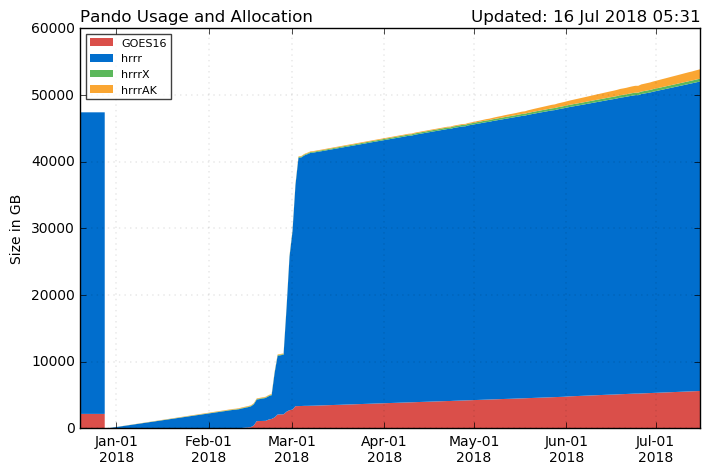
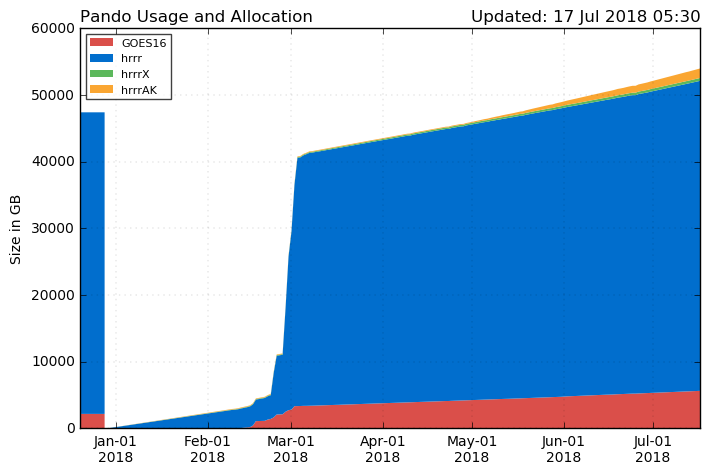
updates

diff --git a/hrrr_fires.html b/hrrr_fires.html
@@ -49,7 +49,7 @@ This page is created dynamically in the scirpt /oper/HRRR_fires/manager.py
 <tr><th>Name</th> <th>State</th> <th>Size (acres)</th> <th>Start Date</th></tr>
 <tr><td>
         <div class="btn-group" role="group" aria-label="..." style="padding-bottom:3px">
-        <a href="http://home.chpc.utah.edu/~u0553130/Brian_Blaylock/cgi-bin/photo_viewer_fire.cgi?FIRE=CURREY_CANYON" class="btn btn-warning" style="width:175px"><b><i class="fab fa-gripfire"></i> CURREY CANYON</b></a>  <div class="btn-group" role="group">
+        <a href="http://home.chpc.utah.edu/~u0553130/Brian_Blaylock/cgi-bin/photo_viewer_fire.cgi?FIRE=EAST_FORK" class="btn btn-warning" style="width:175px"><b><i class="fab fa-gripfire"></i> EAST FORK</b></a>  <div class="btn-group" role="group">
         <!--
         <a class="btn btn-warning dropdown-toggle" data-toggle="dropdown" aria-haspopup="true" aria-expanded="false">
         <i class="far fa-clock"></i>
@@ -57,14 +57,14 @@ This page is created dynamically in the scirpt /oper/HRRR_fires/manager.py
         </a>
         <ul class="dropdown-menu">
         <li>Other Data/Figures:</li>
-        <li><a href="http://home.chpc.utah.edu/~u0553130/PhD/HRRR_fires/CURREY_CANYON">More Plots</a></li>
-        <li><a href="http://home.chpc.utah.edu/~u0553130/Brian_Blaylock/cgi-bin/hrrr_fires_alert.cgi?fire=CURREY CANYON">Past Wind Events</a></li>
+        <li><a href="http://home.chpc.utah.edu/~u0553130/PhD/HRRR_fires/EAST_FORK">More Plots</a></li>
+        <li><a href="http://home.chpc.utah.edu/~u0553130/Brian_Blaylock/cgi-bin/hrrr_fires_alert.cgi?fire=EAST FORK">Past Wind Events</a></li>
         </ul>
         -->
         </div>
-        </div></td><td>Oregon</td> <td>3,100</td><td>2018-07-14 00:00:00</td></tr><tr><td>
+        </div></td><td>Idaho</td> <td>4,000</td><td>2018-07-16 00:00:00</td></tr><tr><td>
         <div class="btn-group" role="group" aria-label="..." style="padding-bottom:3px">
-        <a href="http://home.chpc.utah.edu/~u0553130/Brian_Blaylock/cgi-bin/photo_viewer_fire.cgi?FIRE=EAGLE" class="btn btn-warning" style="width:175px"><b><i class="fab fa-gripfire"></i> EAGLE</b></a>  <div class="btn-group" role="group">
+        <a href="http://home.chpc.utah.edu/~u0553130/Brian_Blaylock/cgi-bin/photo_viewer_fire.cgi?FIRE=EAST_WHITE" class="btn btn-warning" style="width:175px"><b><i class="fab fa-gripfire"></i> EAST WHITE</b></a>  <div class="btn-group" role="group">
         <!--
         <a class="btn btn-warning dropdown-toggle" data-toggle="dropdown" aria-haspopup="true" aria-expanded="false">
         <i class="far fa-clock"></i>
@@ -72,12 +72,72 @@ This page is created dynamically in the scirpt /oper/HRRR_fires/manager.py
         </a>
         <ul class="dropdown-menu">
         <li>Other Data/Figures:</li>
-        <li><a href="http://home.chpc.utah.edu/~u0553130/PhD/HRRR_fires/EAGLE">More Plots</a></li>
-        <li><a href="http://home.chpc.utah.edu/~u0553130/Brian_Blaylock/cgi-bin/hrrr_fires_alert.cgi?fire=EAGLE">Past Wind Events</a></li>
+        <li><a href="http://home.chpc.utah.edu/~u0553130/PhD/HRRR_fires/EAST_WHITE">More Plots</a></li>
+        <li><a href="http://home.chpc.utah.edu/~u0553130/Brian_Blaylock/cgi-bin/hrrr_fires_alert.cgi?fire=EAST WHITE">Past Wind Events</a></li>
         </ul>
         -->
         </div>
-        </div></td><td>California</td> <td>2,100</td><td>2018-07-13 00:00:00</td></tr><tr><td>
+        </div></td><td>Idaho</td> <td>1,000</td><td>2018-07-16 00:00:00</td></tr><tr><td>
+        <div class="btn-group" role="group" aria-label="..." style="padding-bottom:3px">
+        <a href="http://home.chpc.utah.edu/~u0553130/Brian_Blaylock/cgi-bin/photo_viewer_fire.cgi?FIRE=FERGUSON_" class="btn btn-warning" style="width:175px"><b><i class="fab fa-gripfire"></i> FERGUSON </b></a>  <div class="btn-group" role="group">
+        <!--
+        <a class="btn btn-warning dropdown-toggle" data-toggle="dropdown" aria-haspopup="true" aria-expanded="false">
+        <i class="far fa-clock"></i>
+        <span class="caret"></span>
+        </a>
+        <ul class="dropdown-menu">
+        <li>Other Data/Figures:</li>
+        <li><a href="http://home.chpc.utah.edu/~u0553130/PhD/HRRR_fires/FERGUSON_">More Plots</a></li>
+        <li><a href="http://home.chpc.utah.edu/~u0553130/Brian_Blaylock/cgi-bin/hrrr_fires_alert.cgi?fire=FERGUSON ">Past Wind Events</a></li>
+        </ul>
+        -->
+        </div>
+        </div></td><td>California</td> <td>9,266</td><td>2018-07-13 00:00:00</td></tr><tr><td>
+        <div class="btn-group" role="group" aria-label="..." style="padding-bottom:3px">
+        <a href="http://home.chpc.utah.edu/~u0553130/Brian_Blaylock/cgi-bin/photo_viewer_fire.cgi?FIRE=GARAT" class="btn btn-warning" style="width:175px"><b><i class="fab fa-gripfire"></i> GARAT</b></a>  <div class="btn-group" role="group">
+        <!--
+        <a class="btn btn-warning dropdown-toggle" data-toggle="dropdown" aria-haspopup="true" aria-expanded="false">
+        <i class="far fa-clock"></i>
+        <span class="caret"></span>
+        </a>
+        <ul class="dropdown-menu">
+        <li>Other Data/Figures:</li>
+        <li><a href="http://home.chpc.utah.edu/~u0553130/PhD/HRRR_fires/GARAT">More Plots</a></li>
+        <li><a href="http://home.chpc.utah.edu/~u0553130/Brian_Blaylock/cgi-bin/hrrr_fires_alert.cgi?fire=GARAT">Past Wind Events</a></li>
+        </ul>
+        -->
+        </div>
+        </div></td><td>Idaho</td> <td>1,300</td><td>2018-07-16 00:00:00</td></tr><tr><td>
+        <div class="btn-group" role="group" aria-label="..." style="padding-bottom:3px">
+        <a href="http://home.chpc.utah.edu/~u0553130/Brian_Blaylock/cgi-bin/photo_viewer_fire.cgi?FIRE=GEORGES" class="btn btn-warning" style="width:175px"><b><i class="fab fa-gripfire"></i> GEORGES</b></a>  <div class="btn-group" role="group">
+        <!--
+        <a class="btn btn-warning dropdown-toggle" data-toggle="dropdown" aria-haspopup="true" aria-expanded="false">
+        <i class="far fa-clock"></i>
+        <span class="caret"></span>
+        </a>
+        <ul class="dropdown-menu">
+        <li>Other Data/Figures:</li>
+        <li><a href="http://home.chpc.utah.edu/~u0553130/PhD/HRRR_fires/GEORGES">More Plots</a></li>
+        <li><a href="http://home.chpc.utah.edu/~u0553130/Brian_Blaylock/cgi-bin/hrrr_fires_alert.cgi?fire=GEORGES">Past Wind Events</a></li>
+        </ul>
+        -->
+        </div>
+        </div></td><td>California</td> <td>2,888</td><td>2018-07-08 00:00:00</td></tr><tr><td>
+        <div class="btn-group" role="group" aria-label="..." style="padding-bottom:3px">
+        <a href="http://home.chpc.utah.edu/~u0553130/Brian_Blaylock/cgi-bin/photo_viewer_fire.cgi?FIRE=LAKE_CHRISTINE" class="btn btn-warning" style="width:175px"><b><i class="fab fa-gripfire"></i> LAKE CHRISTINE</b></a>  <div class="btn-group" role="group">
+        <!--
+        <a class="btn btn-warning dropdown-toggle" data-toggle="dropdown" aria-haspopup="true" aria-expanded="false">
+        <i class="far fa-clock"></i>
+        <span class="caret"></span>
+        </a>
+        <ul class="dropdown-menu">
+        <li>Other Data/Figures:</li>
+        <li><a href="http://home.chpc.utah.edu/~u0553130/PhD/HRRR_fires/LAKE_CHRISTINE">More Plots</a></li>
+        <li><a href="http://home.chpc.utah.edu/~u0553130/Brian_Blaylock/cgi-bin/hrrr_fires_alert.cgi?fire=LAKE CHRISTINE">Past Wind Events</a></li>
+        </ul>
+        -->
+        </div>
+        </div></td><td>Colorado</td> <td>6,822</td><td>2018-07-03 00:00:00</td></tr><tr><td>
         <div class="btn-group" role="group" aria-label="..." style="padding-bottom:3px">
         <a href="http://home.chpc.utah.edu/~u0553130/Brian_Blaylock/cgi-bin/photo_viewer_fire.cgi?FIRE=LODGEPOLE" class="btn btn-warning" style="width:175px"><b><i class="fab fa-gripfire"></i> LODGEPOLE</b></a>  <div class="btn-group" role="group">
         <!--
@@ -109,36 +169,6 @@ This page is created dynamically in the scirpt /oper/HRRR_fires/manager.py
         </div>
         </div></td><td>Not Reported</td> <td>435,569</td><td>Not Reported</td></tr><tr><td>
         <div class="btn-group" role="group" aria-label="..." style="padding-bottom:3px">
-        <a href="http://home.chpc.utah.edu/~u0553130/Brian_Blaylock/cgi-bin/photo_viewer_fire.cgi?FIRE=MM21_HWY21" class="btn btn-warning" style="width:175px"><b><i class="fab fa-gripfire"></i> MM21 HWY21</b></a>  <div class="btn-group" role="group">
-        <!--
-        <a class="btn btn-warning dropdown-toggle" data-toggle="dropdown" aria-haspopup="true" aria-expanded="false">
-        <i class="far fa-clock"></i>
-        <span class="caret"></span>
-        </a>
-        <ul class="dropdown-menu">
-        <li>Other Data/Figures:</li>
-        <li><a href="http://home.chpc.utah.edu/~u0553130/PhD/HRRR_fires/MM21_HWY21">More Plots</a></li>
-        <li><a href="http://home.chpc.utah.edu/~u0553130/Brian_Blaylock/cgi-bin/hrrr_fires_alert.cgi?fire=MM21 HWY21">Past Wind Events</a></li>
-        </ul>
-        -->
-        </div>
-        </div></td><td>Idaho</td> <td>1,800</td><td>2018-07-15 00:00:00</td></tr><tr><td>
-        <div class="btn-group" role="group" aria-label="..." style="padding-bottom:3px">
-        <a href="http://home.chpc.utah.edu/~u0553130/Brian_Blaylock/cgi-bin/photo_viewer_fire.cgi?FIRE=NORTH_BUTTE" class="btn btn-warning" style="width:175px"><b><i class="fab fa-gripfire"></i> NORTH BUTTE</b></a>  <div class="btn-group" role="group">
-        <!--
-        <a class="btn btn-warning dropdown-toggle" data-toggle="dropdown" aria-haspopup="true" aria-expanded="false">
-        <i class="far fa-clock"></i>
-        <span class="caret"></span>
-        </a>
-        <ul class="dropdown-menu">
-        <li>Other Data/Figures:</li>
-        <li><a href="http://home.chpc.utah.edu/~u0553130/PhD/HRRR_fires/NORTH_BUTTE">More Plots</a></li>
-        <li><a href="http://home.chpc.utah.edu/~u0553130/Brian_Blaylock/cgi-bin/hrrr_fires_alert.cgi?fire=NORTH BUTTE">Past Wind Events</a></li>
-        </ul>
-        -->
-        </div>
-        </div></td><td>Idaho</td> <td>1,000</td><td>2018-07-15 00:00:00</td></tr><tr><td>
-        <div class="btn-group" role="group" aria-label="..." style="padding-bottom:3px">
         <a href="http://home.chpc.utah.edu/~u0553130/Brian_Blaylock/cgi-bin/photo_viewer_fire.cgi?FIRE=RATTLESNAKE" class="btn btn-warning" style="width:175px"><b><i class="fab fa-gripfire"></i> RATTLESNAKE</b></a>  <div class="btn-group" role="group">
         <!--
         <a class="btn btn-warning dropdown-toggle" data-toggle="dropdown" aria-haspopup="true" aria-expanded="false">
@@ -152,9 +182,9 @@ This page is created dynamically in the scirpt /oper/HRRR_fires/manager.py
         </ul>
         -->
         </div>
-        </div></td><td>Washington</td> <td>2,600</td><td>2018-07-13 00:00:00</td></tr><tr><td>
+        </div></td><td>Not Reported</td> <td>2,600</td><td>Not Reported</td></tr><tr><td>
         <div class="btn-group" role="group" aria-label="..." style="padding-bottom:3px">
-        <a href="http://home.chpc.utah.edu/~u0553130/Brian_Blaylock/cgi-bin/photo_viewer_fire.cgi?FIRE=ROCKY_REACH" class="btn btn-warning" style="width:175px"><b><i class="fab fa-gripfire"></i> ROCKY REACH</b></a>  <div class="btn-group" role="group">
+        <a href="http://home.chpc.utah.edu/~u0553130/Brian_Blaylock/cgi-bin/photo_viewer_fire.cgi?FIRE=VALLEY" class="btn btn-warning" style="width:175px"><b><i class="fab fa-gripfire"></i> VALLEY</b></a>  <div class="btn-group" role="group">
         <!--
         <a class="btn btn-warning dropdown-toggle" data-toggle="dropdown" aria-haspopup="true" aria-expanded="false">
         <i class="far fa-clock"></i>
@@ -162,14 +192,14 @@ This page is created dynamically in the scirpt /oper/HRRR_fires/manager.py
         </a>
         <ul class="dropdown-menu">
         <li>Other Data/Figures:</li>
-        <li><a href="http://home.chpc.utah.edu/~u0553130/PhD/HRRR_fires/ROCKY_REACH">More Plots</a></li>
-        <li><a href="http://home.chpc.utah.edu/~u0553130/Brian_Blaylock/cgi-bin/hrrr_fires_alert.cgi?fire=ROCKY REACH">Past Wind Events</a></li>
+        <li><a href="http://home.chpc.utah.edu/~u0553130/PhD/HRRR_fires/VALLEY">More Plots</a></li>
+        <li><a href="http://home.chpc.utah.edu/~u0553130/Brian_Blaylock/cgi-bin/hrrr_fires_alert.cgi?fire=VALLEY">Past Wind Events</a></li>
         </ul>
         -->
         </div>
-        </div></td><td>Washington</td> <td>3,427</td><td>2018-07-13 00:00:00</td></tr><tr><td>
+        </div></td><td>California</td> <td>1,348</td><td>2018-07-06 00:00:00</td></tr><tr><td>
         <div class="btn-group" role="group" aria-label="..." style="padding-bottom:3px">
-        <a href="http://home.chpc.utah.edu/~u0553130/Brian_Blaylock/cgi-bin/photo_viewer_fire.cgi?FIRE=SILVER_STATE" class="btn btn-warning" style="width:175px"><b><i class="fab fa-gripfire"></i> SILVER STATE</b></a>  <div class="btn-group" role="group">
+        <a href="http://home.chpc.utah.edu/~u0553130/Brian_Blaylock/cgi-bin/photo_viewer_fire.cgi?FIRE=WEST_DUCK" class="btn btn-warning" style="width:175px"><b><i class="fab fa-gripfire"></i> WEST DUCK</b></a>  <div class="btn-group" role="group">
         <!--
         <a class="btn btn-warning dropdown-toggle" data-toggle="dropdown" aria-haspopup="true" aria-expanded="false">
         <i class="far fa-clock"></i>
@@ -177,12 +207,12 @@ This page is created dynamically in the scirpt /oper/HRRR_fires/manager.py
         </a>
         <ul class="dropdown-menu">
         <li>Other Data/Figures:</li>
-        <li><a href="http://home.chpc.utah.edu/~u0553130/PhD/HRRR_fires/SILVER_STATE">More Plots</a></li>
-        <li><a href="http://home.chpc.utah.edu/~u0553130/Brian_Blaylock/cgi-bin/hrrr_fires_alert.cgi?fire=SILVER STATE">Past Wind Events</a></li>
+        <li><a href="http://home.chpc.utah.edu/~u0553130/PhD/HRRR_fires/WEST_DUCK">More Plots</a></li>
+        <li><a href="http://home.chpc.utah.edu/~u0553130/Brian_Blaylock/cgi-bin/hrrr_fires_alert.cgi?fire=WEST DUCK">Past Wind Events</a></li>
         </ul>
         -->
         </div>
-        </div></td><td>Nevada</td> <td>3,778</td><td>2018-07-14 00:00:00</td></tr><tr><td>
+        </div></td><td>Idaho</td> <td>3,000</td><td>2018-07-16 00:00:00</td></tr><tr><td>
         <div class="btn-group" role="group" aria-label="..." style="padding-bottom:3px">
         <a href="http://home.chpc.utah.edu/~u0553130/Brian_Blaylock/cgi-bin/photo_viewer_fire.cgi?FIRE=WILLOW_CREEK" class="btn btn-warning" style="width:175px"><b><i class="fab fa-gripfire"></i> WILLOW CREEK</b></a>  <div class="btn-group" role="group">
         <!--
@@ -215,7 +245,7 @@ This page is created dynamically in the scirpt /oper/HRRR_fires/manager.py
     <p><a class='btn btn-default' style='width:100%' href="https://rmgsc.cr.usgs.gov/outgoing/GeoMAC/ActiveFirePerimeters.kml" target="_blank">Active Fire KMZ USGS <i class="fa fa-external-link-alt"></i></a>
     <p><a class='btn btn-default' style='width:100%' href="https://earthdata.nasa.gov/earth-observation-data/near-real-time/firms/active-fire-data" target="_blank">Active Fire KMZ EarthData <i class="fa fa-external-link-alt"></i></a>
     <p><a class='btn btn-success' style='width:100%' href="https://rmgsc.cr.usgs.gov/outgoing/GeoMAC/current_year_fire_data/current_year_all_states/" target="_blank">Active Fire Perimeter ShapeFile <i class="fa fa-external-link-alt"></i></a>
-    <p><a class='btn btn-success' style='width:100%' href="https://fsapps.nwcg.gov/afm/data/lg_fire/lg_fire_info_2018-07-16.txt" target="_blank">Active Fire Text <i class="fa fa-external-link-alt"></i></a>
+    <p><a class='btn btn-success' style='width:100%' href="https://fsapps.nwcg.gov/afm/data/lg_fire/lg_fire_info_2018-07-17.txt" target="_blank">Active Fire Text <i class="fa fa-external-link-alt"></i></a>
     </div>
 </center>
 </div>

diff --git a/Pando_archive/index.html b/Pando_archive/index.html
@@ -37,12 +37,12 @@
         </div>
   <br>
   <script src='./js/pando_status.js'></script>
-    <center><font size=12> 54.0 TB out of 60 TB</font>
+    <center><font size=12> 54.1 TB out of 60 TB</font>
     <div class="progress" style="max-width:700px;height:35px">
             <div class="progress-bar progress-bar-danger" role="progressbar" style="width:9%">
               <font size=4></font>
             </div>
-            <div class="progress-bar progress-bar-primary" role="progressbar" style="width:77%">
+            <div class="progress-bar progress-bar-primary" role="progressbar" style="width:78%">
               <font size=4></font>
             </div>
             <div class="progress-bar progress-bar-success" role="progressbar" style="width:1%">
@@ -64,8 +64,8 @@
         <th style='text-align:center'>Estimated Full Date</th>
       </tr>
       <tr>
-        <td>120.09 GB</td>
-        <td>50</td>
+        <td>120.84 GB</td>
+        <td>49</td>
         <td>04 September 2018</td>
       </tr>
     </table>
@@ -80,30 +80,30 @@
       <tr>
         <th>sfc</th>
         <td>--</td>
-        <td>23.08</td>
-        <td>1.04</td>
-        <td>7.52</td>
+        <td>23.31</td>
+        <td>1.06</td>
+        <td>7.37</td>
       </tr>
       <tr>
         <th>prs</th>
         <td>--</td>
-        <td>3.19</td>
+        <td>3.22</td>
         <td>0.00</td>
         <td>0.00</td>
       </tr>
       <tr>
         <th>nat</th>
         <td>--</td>
-        <td>4.98</td>
+        <td>5.07</td>
         <td>0.00</td>
         <td>0.00</td>
       </tr>
       <tr>
         <th>Total</th>
-        <th>19.0 GB</th>
-        <th>31.24 GB</th>
-        <th>1.04 GB</th>
-        <th>7.52 GB</th>
+        <th>18.8 GB</th>
+        <th>31.60 GB</th>
+        <th>1.06 GB</th>
+        <th>7.37 GB</th>
       </tr>
     </table>
 

diff --git a/js/site/sitemenu.js b/js/site/sitemenu.js
@@ -246,6 +246,7 @@ document.write('\
                         <li><a href="http://raqms.ssec.wisc.edu/forecast/calendar/" target="tools"><i class="fab fa-gripfire fa-fw" ></i>  Real-time Air Quality Modeling System</a></li>\
                         <li><a href="https://www.star.nesdis.noaa.gov/smcd/spb/aq/AerosolWatch/" target="tools"><i class="fab fa-gripfire fa-fw" ></i>  NESDIS STAR GOES-16 Aerosol Watch</a></li>\
                         <li><a href="https://www.weather.gov/abr/etforecasts" target="tools"><i class="fa fa-tint fa-fw" ></i>  Evapotranspiration</a></li>\
+                        <li><a href="http://cimss.ssec.wisc.edu/hrrrval/" target="tools"><i class="fa fa-globe fa-fw" ></i>  HRRR Satellite Validation (CIMSS)</a></li>\
                     </ul>\
                     </li>\
 \
